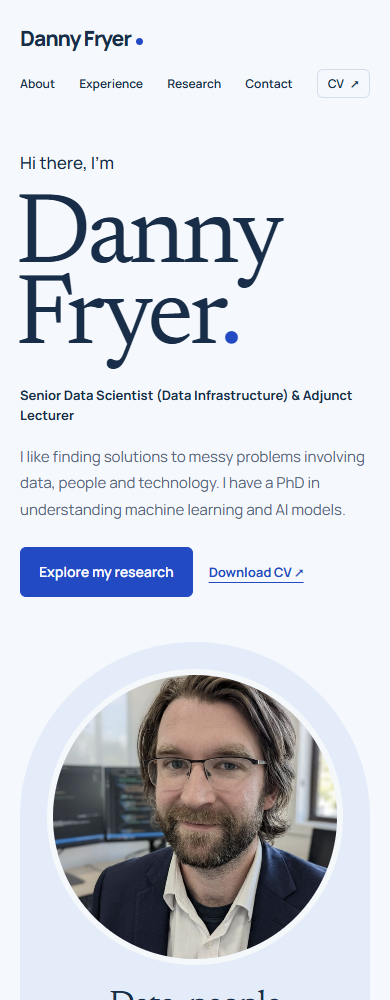
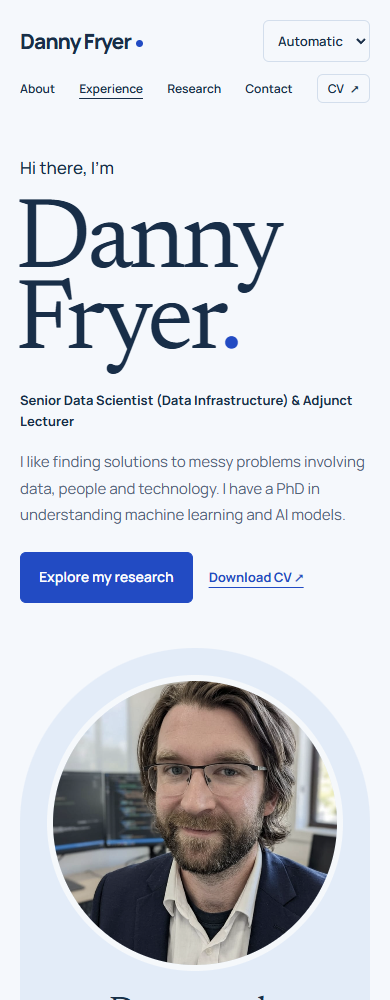
Add light dark and automatic appearance modes

diff --git a/web/styles.css b/web/styles.css
@@ -41,16 +41,26 @@
   font-display: swap;
 }
 :root {
-  --paper: #f5f8fc;
-  --ink: #182e48;
-  --blue: #224bc3;
-  --mist: #e3ecf8;
-  --slate: #52647a;
+  --paper: light-dark(#f5f8fc, #142336);
+  --ink: light-dark(#182e48, #e4ebf5);
+  --blue: light-dark(#224bc3, #a8bfff);
+  --mist: light-dark(#e3ecf8, #1e334c);
+  --slate: light-dark(#52647a, #b1bfd1);
   --white: #fff;
-  --line: #d3deec;
+  --line: light-dark(#d3deec, #3b506b);
+  --input-border: light-dark(#b5c4d9, #6c83a0);
+  --button: light-dark(#224bc3, #426ae1);
+  --button-hover: light-dark(#183a9c, #3559c7);
+  --selection: light-dark(#c8d8fc, #354f7d);
   --sans: Manrope, "Segoe UI", sans-serif;
   --display: Newsreader, Georgia, serif;
+  color-scheme: light dark;
+}
+:root[data-theme="light"] {
   color-scheme: light;
+}
+:root[data-theme="dark"] {
+  color-scheme: dark;
 }
 * {
   box-sizing: border-box;
@@ -76,6 +86,7 @@ a:hover {
 }
 button,
 input,
+select,
 textarea {
   font: inherit;
 }
@@ -104,6 +115,7 @@ h3 {
 a,
 button,
 input,
+select,
 textarea {
   touch-action: manipulation;
 }
@@ -115,7 +127,7 @@ textarea {
   display: none !important;
 }
 ::selection {
-  background: #c8d8fc;
+  background: var(--selection);
 }
 .wrap {
   width: min(1180px, calc(100% - 112px));
@@ -171,13 +183,27 @@ textarea {
 .nav-cv span {
   margin-left: 13px;
 }
+.theme-control {
+  flex-shrink: 0;
+}
+.theme-control select {
+  min-height: 42px;
+  max-width: 125px;
+  padding: 7px 10px;
+  border: 1px solid var(--line);
+  border-radius: 6px;
+  background: var(--paper);
+  color: var(--ink);
+  font-size: 13px;
+  cursor: pointer;
+}
 .skip {
   position: fixed;
   left: 16px;
   top: -100px;
   z-index: 10;
   padding: 12px 20px;
-  background: var(--white);
+  background: var(--paper);
 }
 .skip:focus {
   top: 12px;
@@ -226,9 +252,9 @@ textarea {
   align-items: center;
   min-height: 49px;
   padding: 12px 23px;
-  border: 1px solid var(--blue);
+  border: 1px solid var(--button);
   border-radius: 6px;
-  background: var(--blue);
+  background: var(--button);
   color: var(--white);
   font-weight: 600;
   font-size: 14px;
@@ -236,7 +262,7 @@ textarea {
   cursor: pointer;
 }
 .button:hover {
-  background: #183a9c;
+  background: var(--button-hover);
   text-decoration: none;
 }
 .text-link {
@@ -536,7 +562,7 @@ textarea {
   width: 100%;
   background: var(--paper);
   color: var(--ink);
-  border: 1px solid #b5c4d9;
+  border: 1px solid var(--input-border);
   border-radius: 5px;
   padding: 11px 13px;
   min-height: 46px;
@@ -606,7 +632,7 @@ textarea {
 }
 .detail-figure figcaption {
   font-size: 12px;
-  color: var(--slate);
+  color: #52647a;
   margin-top: 18px;
 }
 .detail .prose {
@@ -737,6 +763,23 @@ textarea {
   }
 }
 @media (max-width: 1000px) {
+  .site-header {
+    flex-wrap: wrap;
+    padding-block: 20px;
+  }
+  .site-header .brand {
+    order: 1;
+    margin-right: auto;
+  }
+  .theme-control {
+    order: 2;
+  }
+  .site-header nav {
+    order: 3;
+    width: 100%;
+    justify-content: space-between;
+    gap: 8px;
+  }
   .wrap {
     width: calc(100% - 64px);
   }

diff --git a/web/theme.js b/web/theme.js
@@ -1,0 +1,39 @@
+(() => {
+  const storageKey = "color-theme";
+  const valid = (value) => ["automatic", "light", "dark"].includes(value);
+  const readPreference = () => {
+    try {
+      const saved = localStorage.getItem(storageKey);
+      return valid(saved) ? saved : "automatic";
+    } catch {
+      return "automatic";
+    }
+  };
+  const apply = (mode) => {
+    document.documentElement.dataset.theme = mode;
+    document.querySelectorAll("[data-theme-select]").forEach((select) => {
+      select.value = mode;
+    });
+  };
+
+  // Run in the head so a remembered choice takes effect before first paint.
+  apply(readPreference());
+  document.addEventListener("DOMContentLoaded", () => {
+    apply(readPreference());
+    document.querySelectorAll("[data-theme-select]").forEach((select) => {
+      select.closest("label").hidden = false;
+      select.addEventListener("change", () => {
+        const mode = valid(select.value) ? select.value : "automatic";
+        apply(mode);
+        try {
+          localStorage.setItem(storageKey, mode);
+        } catch {
+          // The current page still works when browser storage is unavailable.
+        }
+      });
+    });
+  });
+  window.addEventListener("storage", (event) => {
+    if (event.key === storageKey || event.key === null) apply(readPreference());
+  });
+})();

diff --git a/docs/design.md b/docs/design.md
@@ -13,6 +13,12 @@ The site introduces Danny's data science work to collaborators, students, and pr
 
 Locally hosted Manrope serves body text and navigation. Newsreader serves display headings. Both have system fallbacks.
 
+## Theme modes
+
+Light, Dark, and Automatic are available in a compact header selector. Automatic is the default and follows system appearance, including changes while the page is open. Explicit choices are remembered across visits and applied before the page paints.
+
+Dark mode keeps the same blue identity: slate-blue paper `#142336`, pale ink `#e4ebf5`, blue links `#a8bfff`, secondary surfaces `#1e334c`, muted text `#b1bfd1`, and primary buttons `#426ae1`. Research figures keep white backgrounds so plots remain readable. The layout and portrait stay unchanged. This extends the established design rather than adding a separate visual style.
+
 ## Layout
 
 The oversized name and portrait form the focal point. Affiliations sit beneath the introduction. The exact supplied biography pairs with education and profile details, followed by six professional disciplines, ongoing roles, illustrated publications, honors, and contact. Full career descriptions live on `/experience/`.

diff --git a/README.md b/README.md
@@ -24,6 +24,8 @@ Open http://127.0.0.1:4321. Restart the preview after editing. `npm run build` g
 
 `scripts/build.mjs` generates the pages. `web/styles.css` controls the appearance, and `web/site.js` adds publication search. Fonts are hosted locally, with their licenses included in the build. The repository license and requested frontend design skill are retained.
 
+The header offers Light, Dark, and Automatic themes. Automatic follows the system appearance by default; an explicit selection is remembered across visits. `web/theme.js` applies the saved choice before the first paint. Without JavaScript, the site still follows the system color scheme.
+
 [Design notes](docs/design.md) describe the layout and palette. [Profile provenance](docs/profile-update.md) records the supplied LinkedIn source and biography verification.
 
 ## Verify
